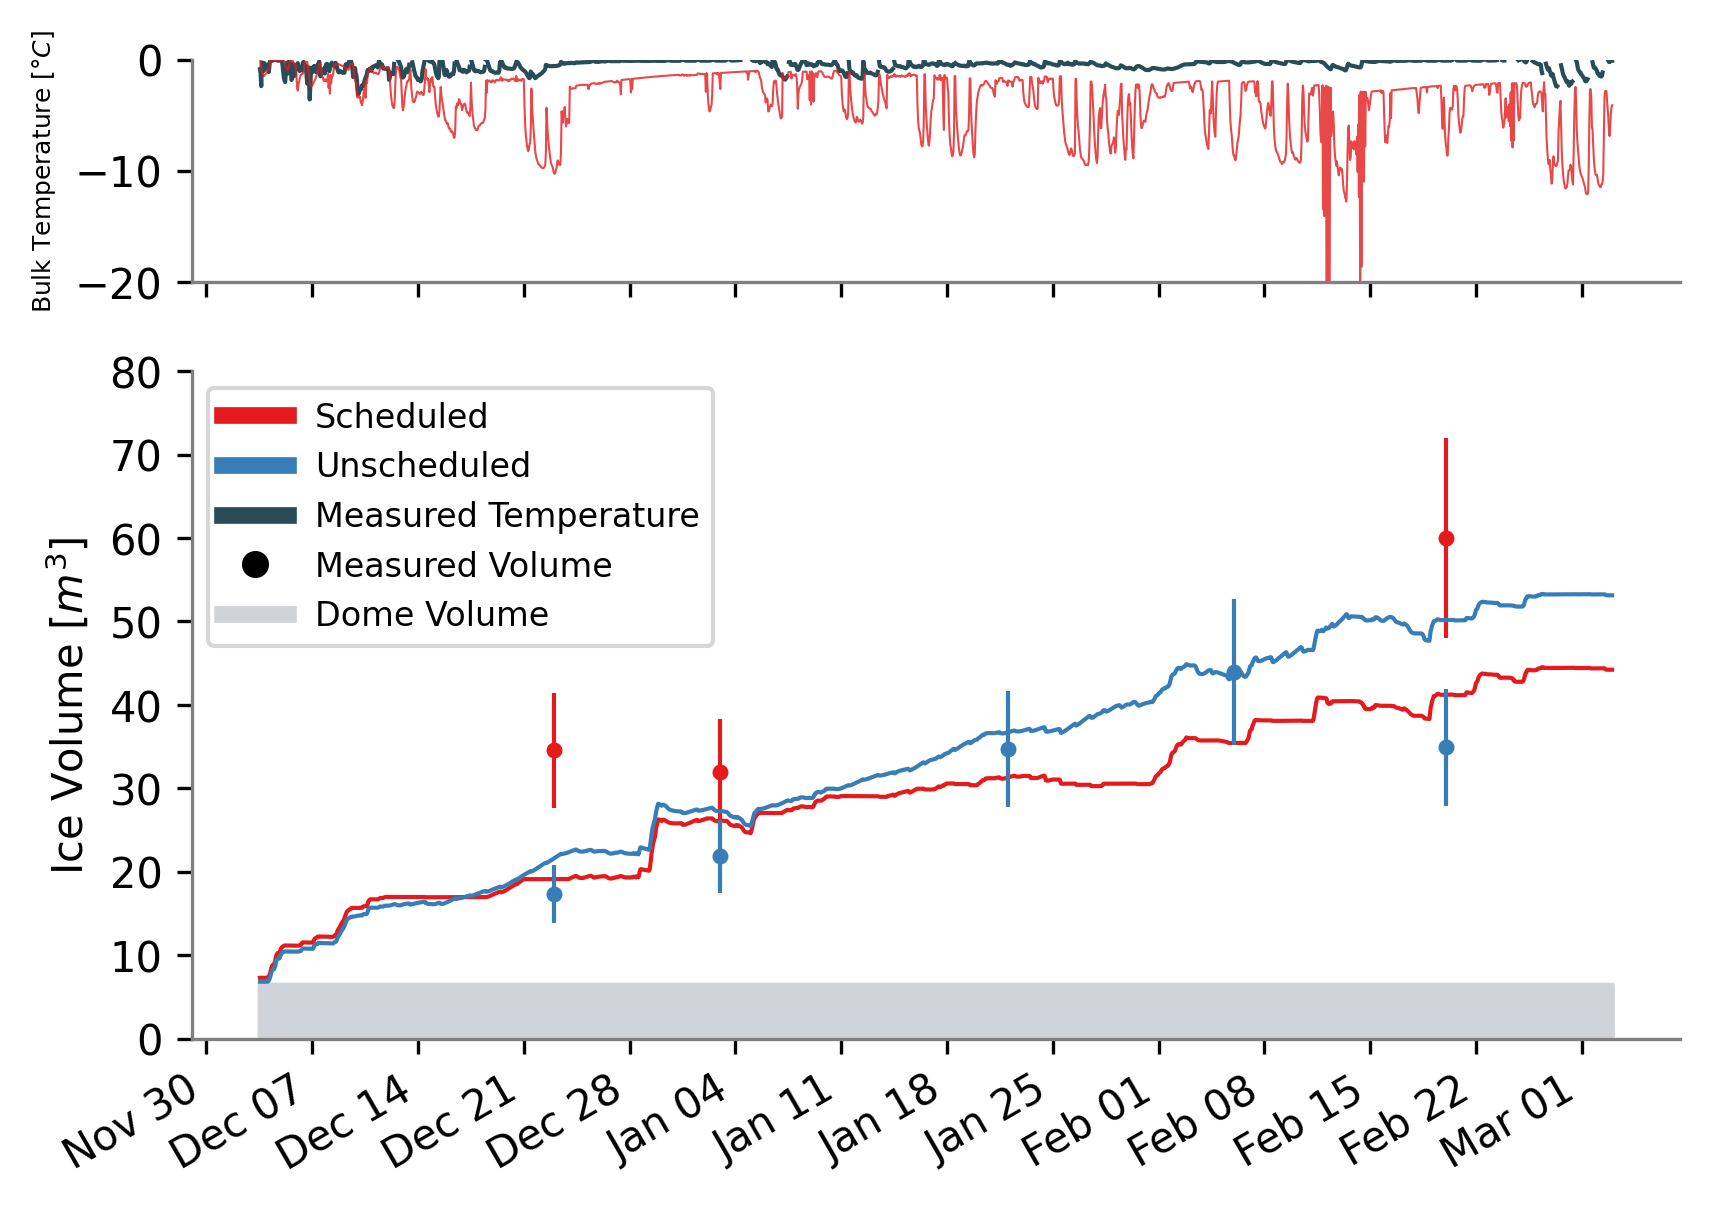
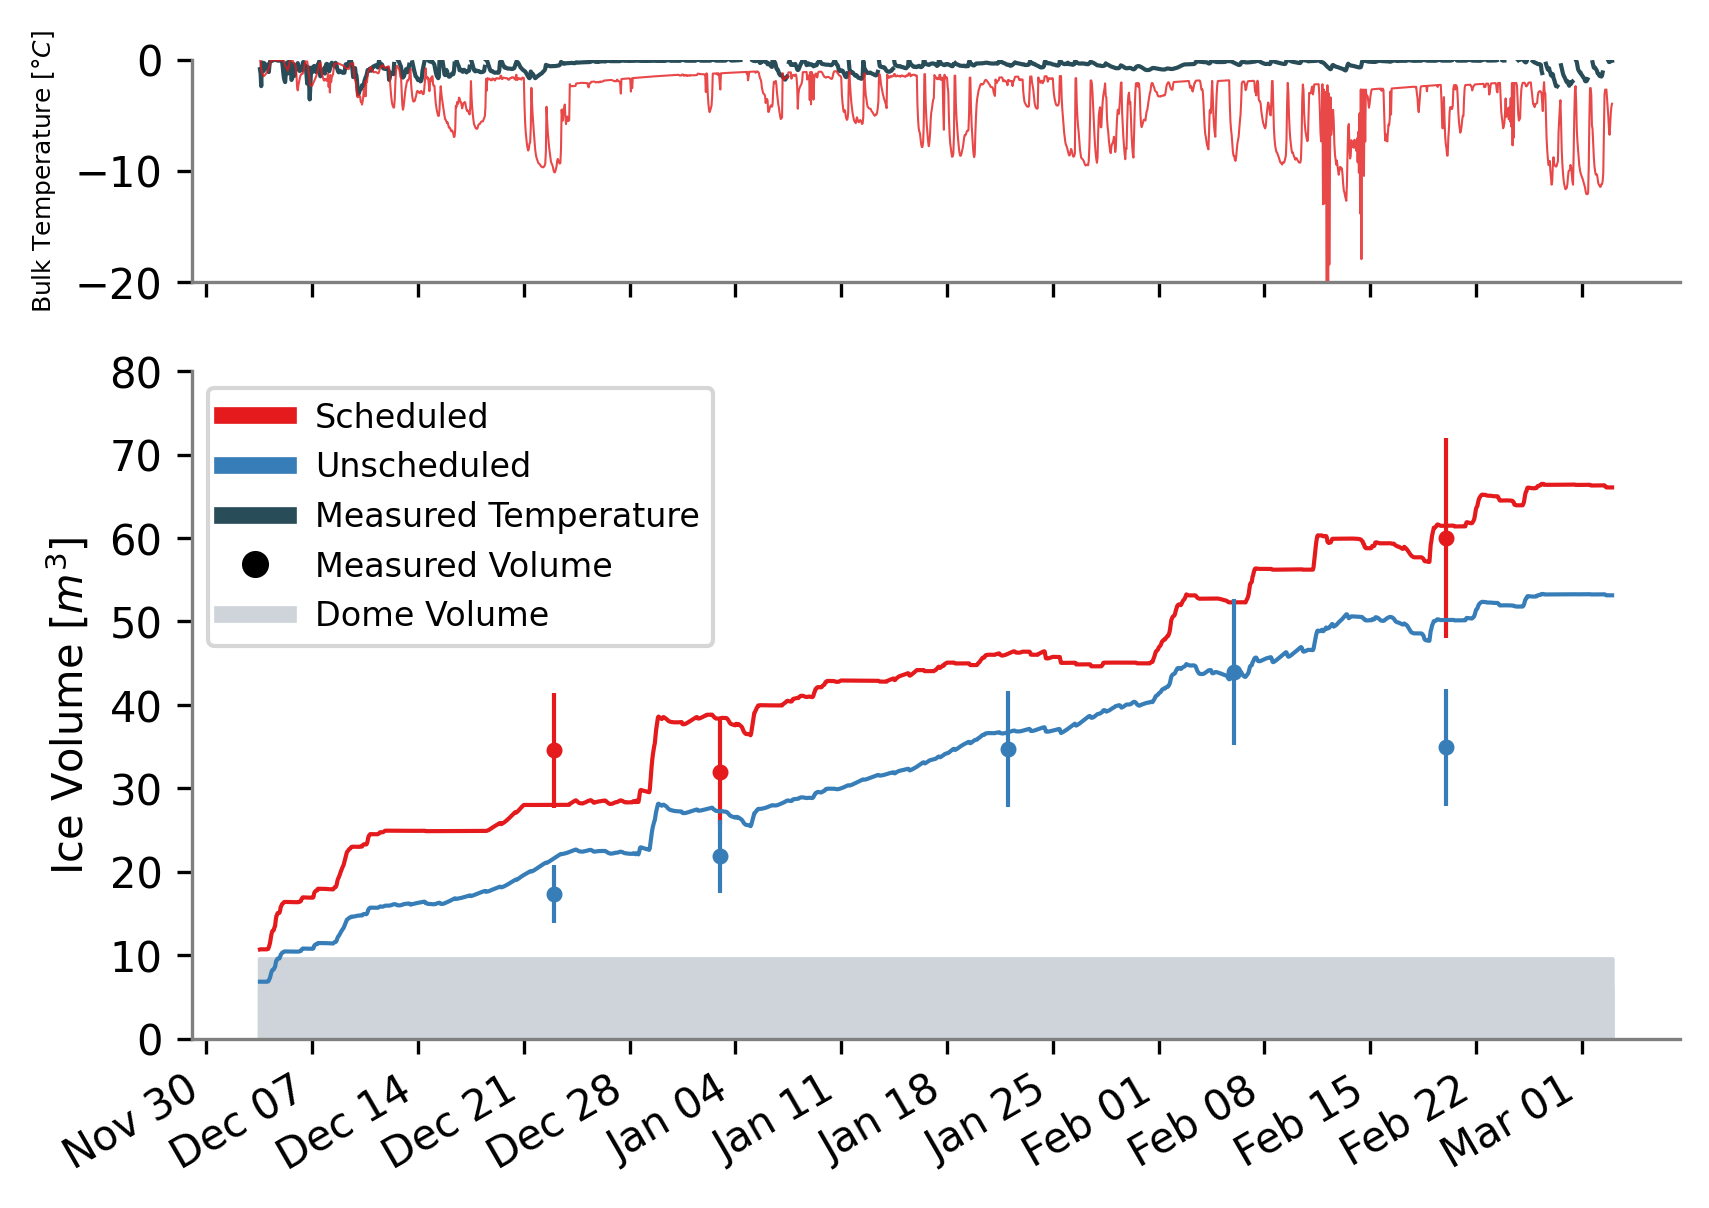
Update figs and table

diff --git a/tech.tex b/tech.tex
@@ -369,18 +369,27 @@ lower snowfall input of the traditional AIR made it more dense than the automate
 		\textbf{}              & \textbf{Name}                   & \textbf{Symbol} & \textbf{Traditional} & \textbf{Automated} &
 		\textbf{Units}                                                                                                       \\ \midrule
 		\multicolumn{1}{|l|}{\multirow{3}{*}{\rotatebox[origin=c]{90}{Input}}}
-		                       & Fountain discharge              & $M_F$           & \num{7.3e5}   & \num{6.6e4}     & $kg$  \\
-		\multicolumn{1}{|l|}{} & Snowfall                        & $M_{ppt}$       & \num{1.3e4}   & \num{2.1e4}   & $kg$  \\
+		                       & Fountain discharge              & $M_F$           & \num{7.3e5}   & \num{7.5e4}     & $kg$  \\
+		\multicolumn{1}{|l|}{} & Snowfall                        & $M_{ppt}$       & \num{1.3e4}   & \num{2.2e4}   & $kg$  \\
 		\multicolumn{1}{|l|}{} & Deposition                      & $M_{dep}$       & \num{2.3e2}   & \num{8.9e2}     & $kg$  \\ \midrule
 		\multicolumn{1}{|l|}{\multirow{4}{*}{\rotatebox[origin=c]{90}{Output}}}
 		                       & Meltwater                       & $M_{water}$     & \num{2.0e4} & \num{1.2e4}   & $kg$  \\
-		\multicolumn{1}{|l|}{} & Ice                             & $M_{ice}$       & \num{2.2e4} & \num{2.1e4}    & $kg$  \\
+		\multicolumn{1}{|l|}{} & Ice                             & $M_{ice}$       & \num{2.2e4} & \num{3.0e4}    & $kg$  \\
 		\multicolumn{1}{|l|}{} & Sublimation                     & $M_{sub}$       & \num{1.5e3} & \num{1.2e3}     & $kg$  \\
-		\multicolumn{1}{|l|}{} & Fountain wastewater             & $M_{waste}$     & \num{7.0e5} & \num{1.2e4}     & $kg$  \\ \midrule
+		\multicolumn{1}{|l|}{} & Fountain wastewater             & $M_{waste}$     & \num{7.0e5} & \num{6.5e4}     & $kg$  \\ \midrule
+		\multicolumn{1}{|l|}{\multirow{7}{*}{\rotatebox[origin=c]{90}{Energy Balance}}}
+
+                           & Shortwave radiation             &  $q_{SW}$       & $13 \pm 36$  & $8 \pm 24$ & $W\,m^{-2}$ \\
+		\multicolumn{1}{|l|}{} & Longwave radiation              &  $q_{LW}$       & $-21\pm 30$  & $-9 \pm 23$& $W\,m^{-2}$ \\
+		\multicolumn{1}{|l|}{} & Sensible heat                   &  $q_{S}$        & $1\pm 12$  & $2 \pm 17$   & $W\,m^{-2}$ \\
+		\multicolumn{1}{|l|}{} & Latent heat                     &  $q_{L}$        & $-7\pm 32$  & $-1 \pm 31$ & $W\,m^{-2}$ \\
+		\multicolumn{1}{|l|}{} & Fountain water heat             &  $q_{F}$        & $3\pm 6$  & $0 \pm 1$     & $W\,m^{-2}$ \\
+		\multicolumn{1}{|l|}{} & Ground heat                     &  $q_{G}$        & $0\pm 1$  & $0 \pm 2$     & $W\,m^{-2}$ \\
+		\multicolumn{1}{|l|}{} & Surface Area                    &  $A_{cone}$     & $56\pm 5$  & $79 \pm 4$     &$m^{2}$ \\\midrule
 		\multicolumn{1}{|l|}{\multirow{2}{*}{\rotatebox[origin=c]{90}{AIR}}}
 
 		                       & Maximum Ice Volume              &                 & 47            & 67            & $m^{3}$ \\
-		\multicolumn{1}{|l|}{} & Water Use Efficiency            &                 & 5             & 30            & \% \\\midrule
+		\multicolumn{1}{|l|}{} & Water Use Efficiency            &                 & 5             & 38            & \% \\\midrule
 	\end{tabular}
 \end{table}
 
